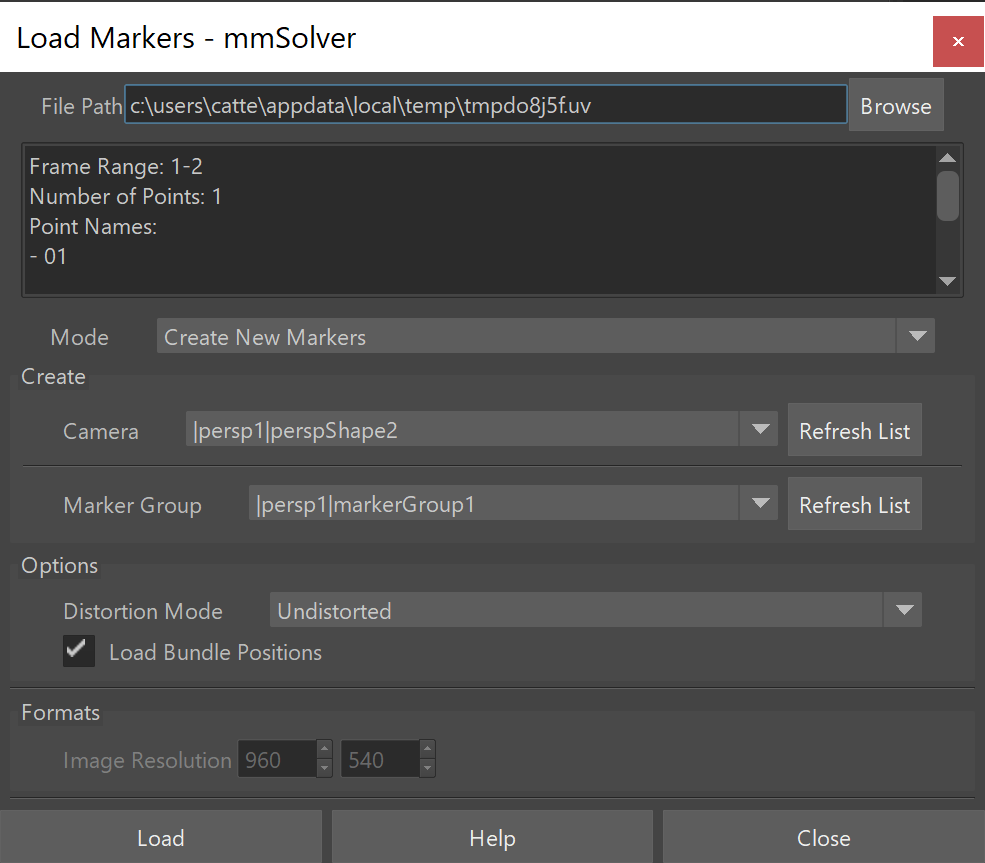
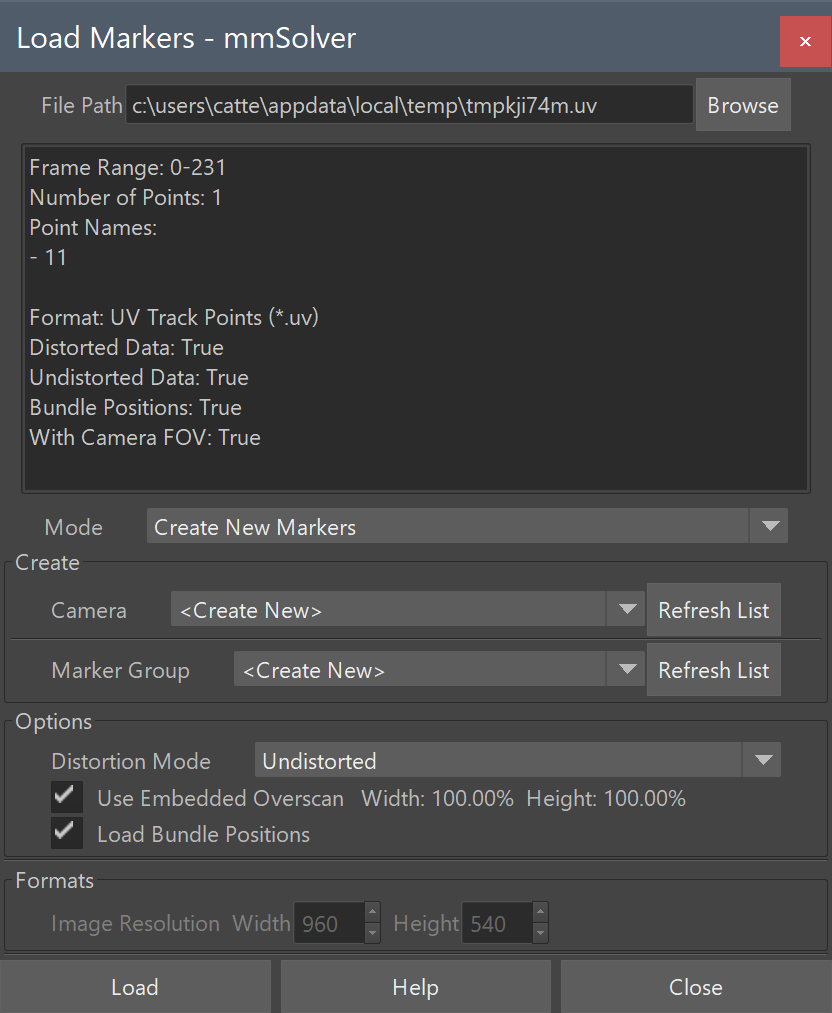
Updated LoadMarker documentation, for 'Use Embedded Overscan'. Issue #131.

diff --git a/python/mmSolver/tools/loadmarker/lib/formats/uvtrack.py b/python/mmSolver/tools/loadmarker/lib/formats/uvtrack.py
@@ -62,7 +62,8 @@ The dictionary looks like this, format version 2::
     }
 
 
-Format version 3:
+Format version 3::
+
     {
         'version': int,
         'num_points': int,
@@ -91,7 +92,8 @@ Format version 3:
     }
 
 
-Format version 4:
+Format version 4::
+
     {
         'version': int,
         'num_points': int,
@@ -129,7 +131,6 @@ Format version 4:
             ],
         }
     }
-
 
 """
 

diff --git a/python/mmSolver/tools/loadmarker/tool.py b/python/mmSolver/tools/loadmarker/tool.py
@@ -26,11 +26,8 @@ import mmSolver.api as mmapi
 LOG = mmSolver.logger.get_logger()
 
 
-# def main(file_path, cam=None, **kwargs):
-#     raise NotImplementedError
-
-
 def open_window():
+    """Open the Load Marker GUI."""
     mmapi.load_plugin()
     import mmSolver.tools.loadmarker.ui.loadmarker_window as loadmarker_window
     loadmarker_window.main()

diff --git a/docs/source/mmSolver.tools.loadmarker.rst b/docs/source/mmSolver.tools.loadmarker.rst
@@ -5,43 +5,61 @@ mmSolver.tools.loadmarker
     :members:
     :undoc-members:
 
-Basics
-++++++
+Tool
+++++
 
-.. automodule:: mmSolver.tools.loadmarker.mayareadfile
+.. automodule:: mmSolver.tools.loadmarker.lib.tool
     :members:
     :undoc-members:
 
-Advanced
-++++++++
+Library - Basics
+++++++++++++++++
 
-.. automodule:: mmSolver.tools.loadmarker.formatmanager
+.. automodule:: mmSolver.tools.loadmarker.lib.mayareadfile
     :members:
     :undoc-members:
 
-.. automodule:: mmSolver.tools.loadmarker.interface
+Library - Advanced
+++++++++++++++++++
+
+.. automodule:: mmSolver.tools.loadmarker.lib.formatmanager
     :members:
     :undoc-members:
+
+.. automodule:: mmSolver.tools.loadmarker.lib.interface
+    :members:
+    :undoc-members:
+
+.. automodule:: mmSolver.tools.loadmarker.lib.utils
+    :members:
+    :undoc-members:
+
+.. automodule:: mmSolver.tools.loadmarker.lib.fieldofview
+    :members:
+    :undoc-members:
+
+Library - Formats
++++++++++++++++++
+
+.. automodule:: mmSolver.tools.loadmarker.lib.formats
+    :members:
+    :undoc-members:
+
+.. automodule:: mmSolver.tools.loadmarker.lib.formats.rz2
+    :members:
+    :undoc-members:
+
+.. automodule:: mmSolver.tools.loadmarker.lib.formats.tdetxt
+    :members:
+    :undoc-members:
+
+.. automodule:: mmSolver.tools.loadmarker.lib.formats.uvtrack
+    :members:
+    :undoc-members:
+
+Constants
++++++++++
 
 .. automodule:: mmSolver.tools.loadmarker.constant
-    :members:
-    :undoc-members:
-
-Formats
-+++++++
-
-.. automodule:: mmSolver.tools.loadmarker.formats
-    :members:
-    :undoc-members:
-
-.. automodule:: mmSolver.tools.loadmarker.formats.rz2
-    :members:
-    :undoc-members:
-
-.. automodule:: mmSolver.tools.loadmarker.formats.tdetxt
-    :members:
-    :undoc-members:
-
-.. automodule:: mmSolver.tools.loadmarker.formats.uvtrack
     :members:
     :undoc-members:

diff --git a/docs/source/tools_createnode.rst b/docs/source/tools_createnode.rst
@@ -116,6 +116,10 @@ task needed for solving 3D objects and cameras.
 
 3) Press the **Load** button.
 
+When the **Load** button is run, the options used in the Load Marker UI
+will be saved to the user's home directory. The saved options are
+automatically restored when the Load Marker UI is re-opened.
+
 .. list-table:: Load Marker Options
    :widths: auto
    :header-rows: 1
@@ -140,6 +144,13 @@ task needed for solving 3D objects and cameras.
      - will allow choosing the type of 2D point data to create or
        load. Some formats (for example ``.uv``) can store both
        undistorted and distorted 2D data.
+
+   * - Use Embedded Overscan
+     - will use the camera field of view (FOV) embedded inside the
+       file to automatically calculate the correct 2D
+       position. ``.uv`` is the only currently supported format. Use
+       ``Copy Tracks (MM Solver)`` or ``Export Tracks (MM Solver)``
+       version 1.7+ inside 3DEqualizer for this feature to be enabled.
 
    * - Load Bundle Positions
      - will allow loading 3D point information saved along with the 2D
